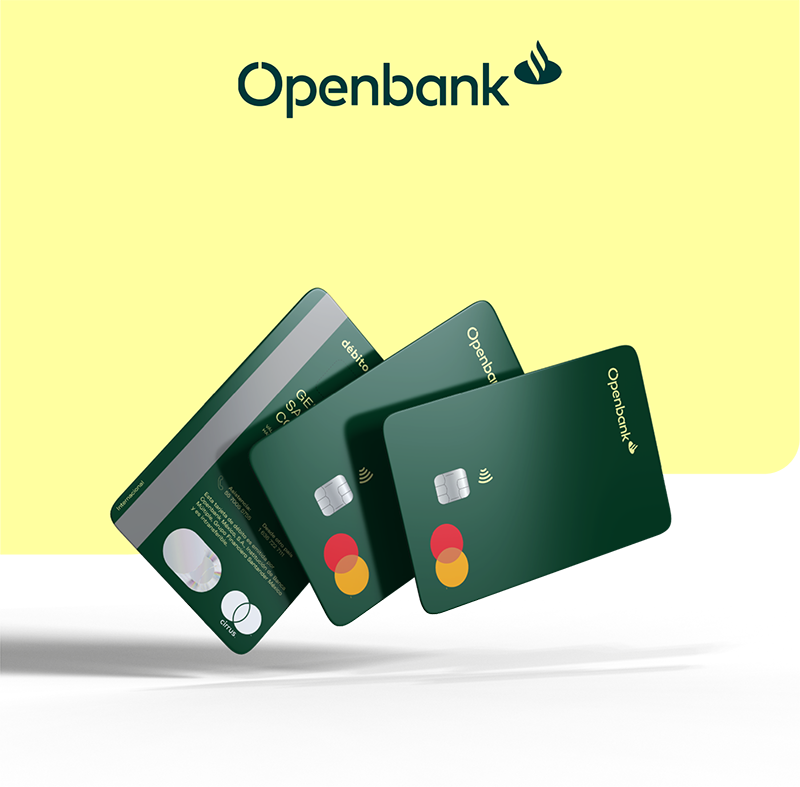
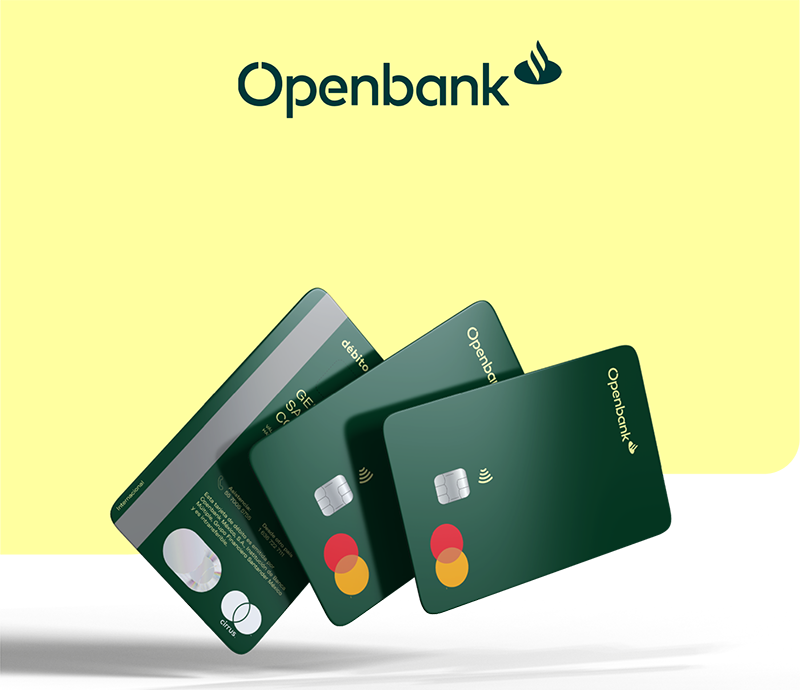
x

Changed region(s): [[0.0, 0.3652, 1.0, 1.0], [0.2812, 0.0609, 0.7188, 0.1826]]

diff --git a/OB_MX_08.html b/OB_MX_08.html
@@ -462,25 +462,35 @@
 </head>
 <body><div class="wrapper" dir="ltr" style="max-width: 600px; margin: 0 auto;">
         <table border="0" cellpadding="0" cellspacing="0" width="100%" class="templateColumns darkmodeBackground"
-        style="-webkit-text-size-adjust:100%;-ms-text-size-adjust:100%;mso-table-lspace:0pt;mso-table-rspace:0pt;mso-default-height:100%;mso-default-width:100%;mso-space-above:no;mso-space-below:no;margin:0;padding:0;width:100%;max-width:600px;border-collapse:collapse !important;border-spacing:0 !important;table-layout:fixed !important;padding:0 !important;margin: 0; padding: 0; max-width: 600px;">
+        style="-webkit-text-size-adjust:100%;-ms-text-size-adjust:100%;mso-table-lspace:0pt;mso-table-rspace:0pt;mso-default-height:100%;mso-default-width:100%;mso-space-above:no;mso-space-below:no;margin:0;padding:0;width:100%;max-width:600px;border-collapse:collapse !important;border-spacing:0 !important;table-layout:fixed !important;padding:0 !important;margin: 0; padding: 0; max-width: 600px;font-family: 'GT-America-Extended', sans-serif;">
             <tr>
                 <td>
-                    <a href="#"><img src="https://openbank-newsletter-q2k5.vercel.app/img/ob08/Onboarding-N2_TBD_FRIENDS_ FAMILY_top_plain.png" width="100%" alt="N2 TBD FRIENDS & FAMILY" style="display:block;margin-top:-20px; margin-bottom:-10px;"></a>
+                    <a href="#"><img src="https://openbank-newsletter-q2k5.vercel.app/img/ob08/Onboarding-N2_TBD_FRIENDS_ FAMILY_top.png" width="100%" alt="N2 TBD FRIENDS & FAMILY" style="display:block;margin-top:-20px; margin-bottom:10px;"></a>
                 </td>
             </tr>
-            <td style="background-color:#fff;text-align: center;">
+            <td style="text-align: center;">
               <table border="0" cellpadding="0" cellspacing="0" width="100%" class="templateColumns darkmodeBackground"
-        style="-webkit-text-size-adjust:100%;-ms-text-size-adjust:100%;mso-table-lspace:0pt;mso-table-rspace:0pt;mso-default-height:100%;mso-default-width:100%;mso-space-above:no;mso-space-below:no;margin:-100px auto 0;padding:0;width:100%;max-width:400px;border-collapse:collapse !important;border-spacing:0 !important;table-layout:fixed !important;">
+        style="-webkit-text-size-adjust:100%;-ms-text-size-adjust:100%;mso-table-lspace:0pt;mso-table-rspace:0pt;mso-default-height:100%;mso-default-width:100%;mso-space-above:no;mso-space-below:no;margin:0 auto 0;padding:0;width:100%;max-width:400px;border-collapse:collapse !important;border-spacing:0 !important;table-layout:fixed !important;">
                 <tr>
-                  <td style="background-color:#fff;text-align: center;"><h2 style="font-size: 40px;color:#000; margin:0;font-family: 'GT-America-Extended', sans-serif;">Hola, ${name}</h2>
-              <p style="font-size: 26px;color:#000; margin:0; font-family: 'GT-America-Extended', sans-serif;">Gracias por abrir tu Cuenta Débito Open Light.</p></td>
+                  <td style="text-align: center;"><h2 style="font-size: 40px; margin:0;font-family: 'GT-America-Expanded', sans-serif;">Hola, ${name}</h2>
+              <p style="font-size: 26px; margin:0; font-family: 'GT-America-Extended', sans-serif;">Gracias por abrir tu Cuenta Débito Open Light.</p></td>
                 </tr>
               </table>
             </td>
             <tr>
                 <td>
-                    <a href="#"><img src="https://openbank-newsletter-q2k5.vercel.app/img/ob08/Onboarding-N2_TBD_FRIENDS_ FAMILY_bottom.png" width="100%" alt="N2 TBD FRIENDS & FAMILY" style="display:block;margin-top:0; margin-bottom:-10px;"></a>
+                    <a href="#"><img src="https://openbank-newsletter-q2k5.vercel.app/img/ob08/Onboarding-N2_TBD_FRIENDS_ FAMILY_bottom.png" width="100%" alt="N2 TBD FRIENDS & FAMILY" style="display:block;margin-top:0; margin-bottom:10px;"></a>
                 </td>
+            </tr>
+            <tr>
+              <td style="padding:20px 33px;">
+                <p style="margin-bottom:0;font-size: 18px;">¡Qué gusto tenerte aqui!<br>Tu banco Openbank 🖤</p>
+              </td>
+            </tr>
+            <tr>
+              <td style="padding:25px 33px; text-align:center;">
+                <p style="margin:0;font-weight: bold;font-size: 18px;">100% BANCO. 100% DIGITAL</p>
+              </td>
             </tr>
         </table>
         <table border="0" cellpadding="0" cellspacing="0" width="100%" class="templateColumnsFooter darkmode" bgcolor="#000000"
